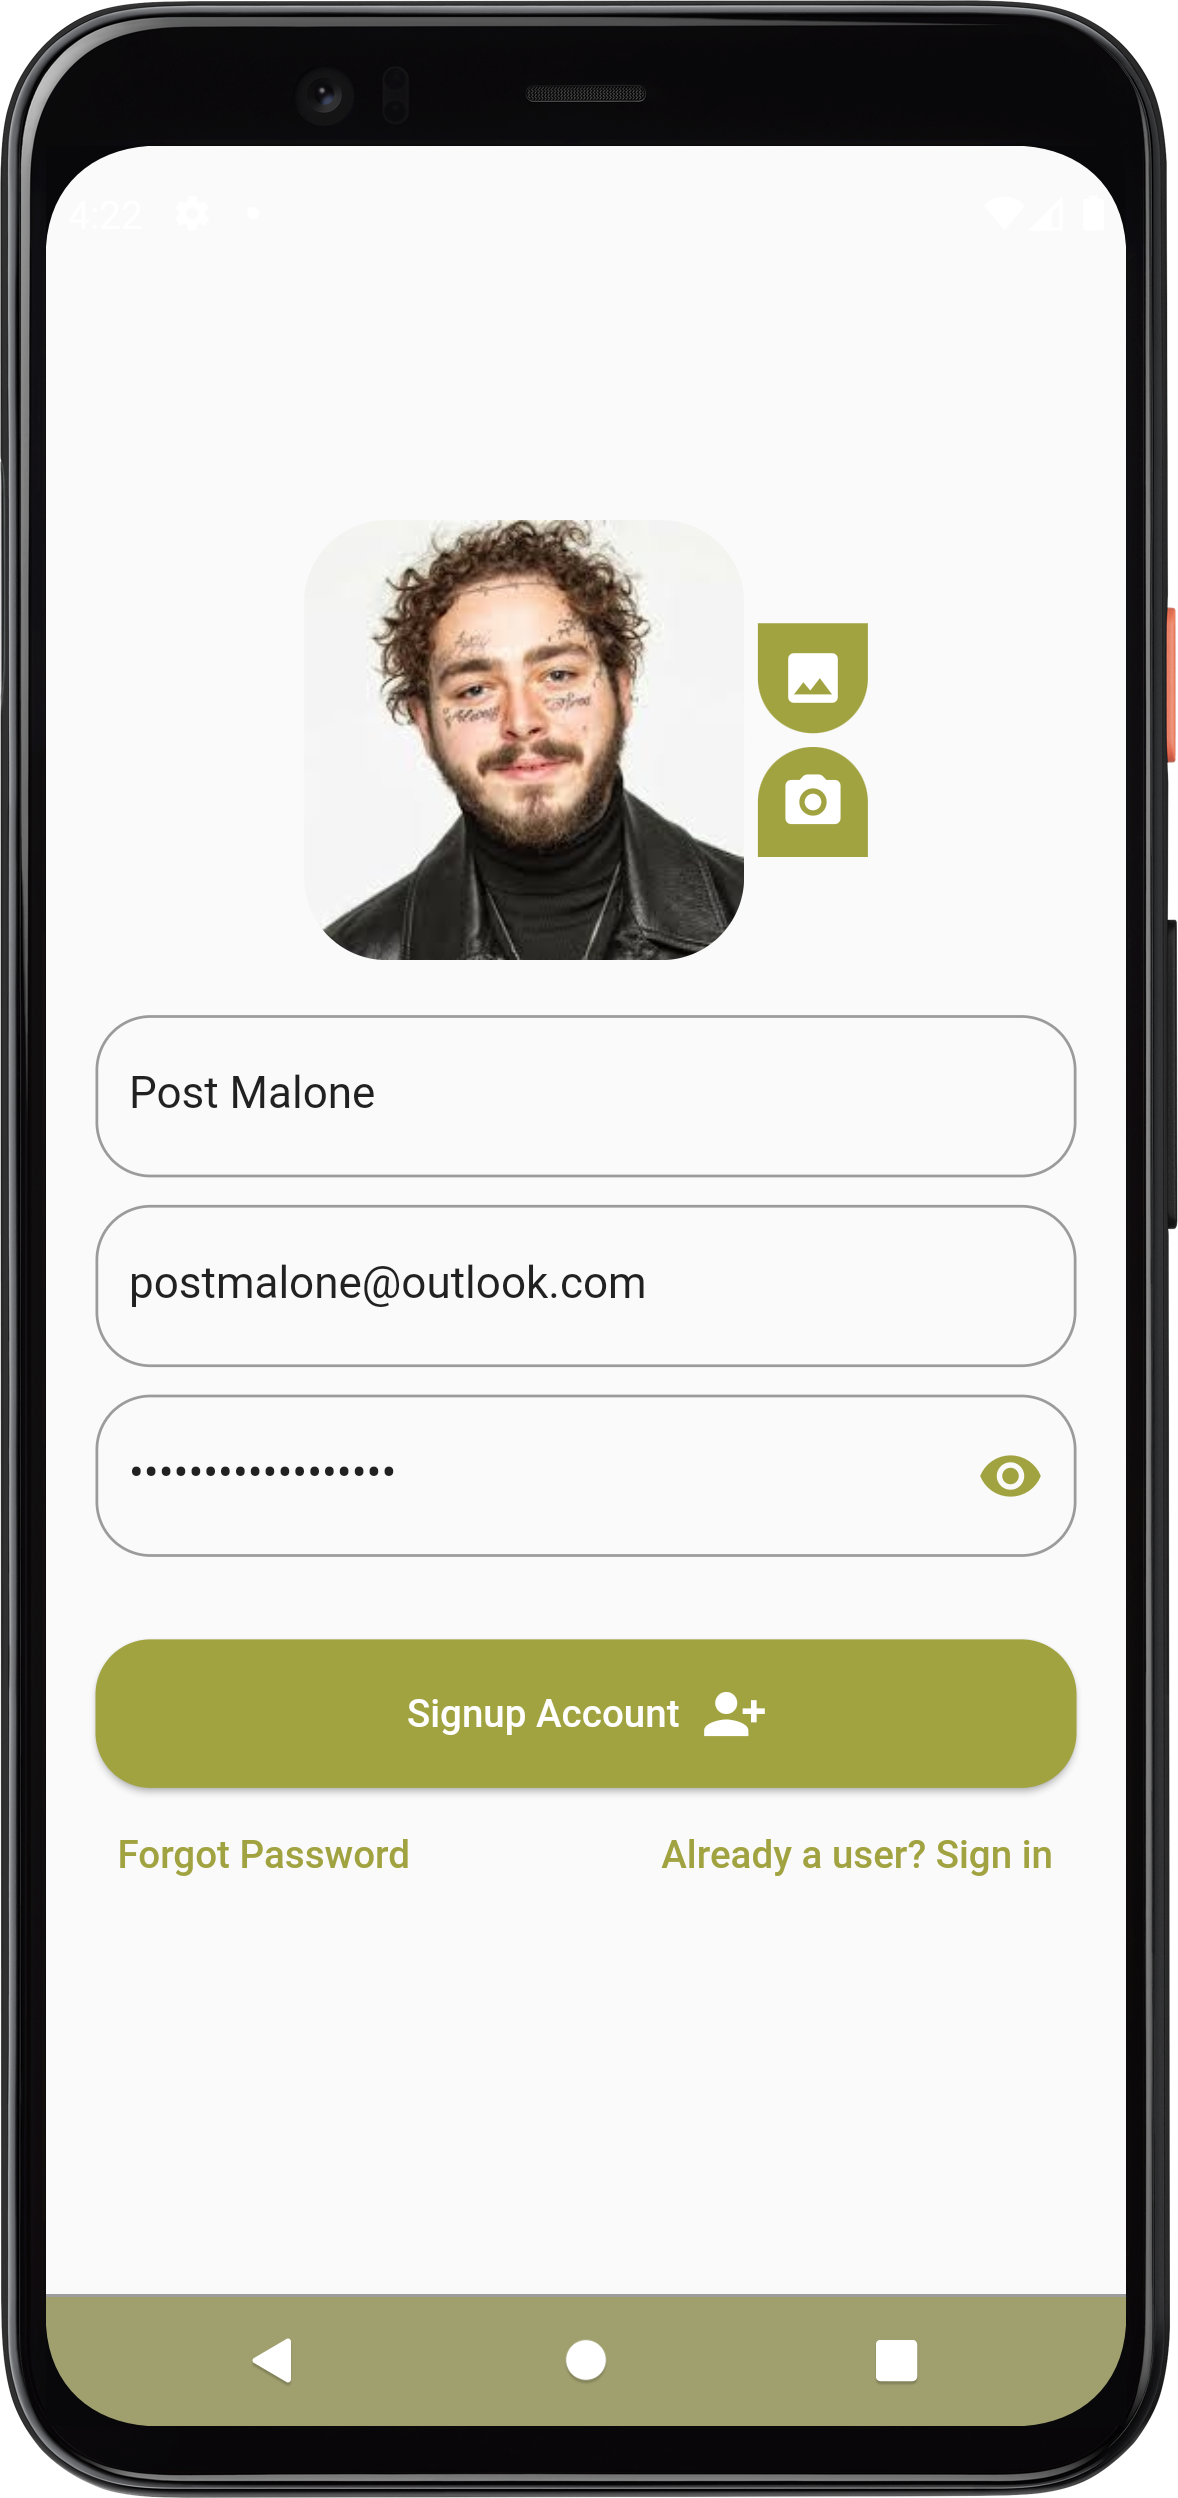
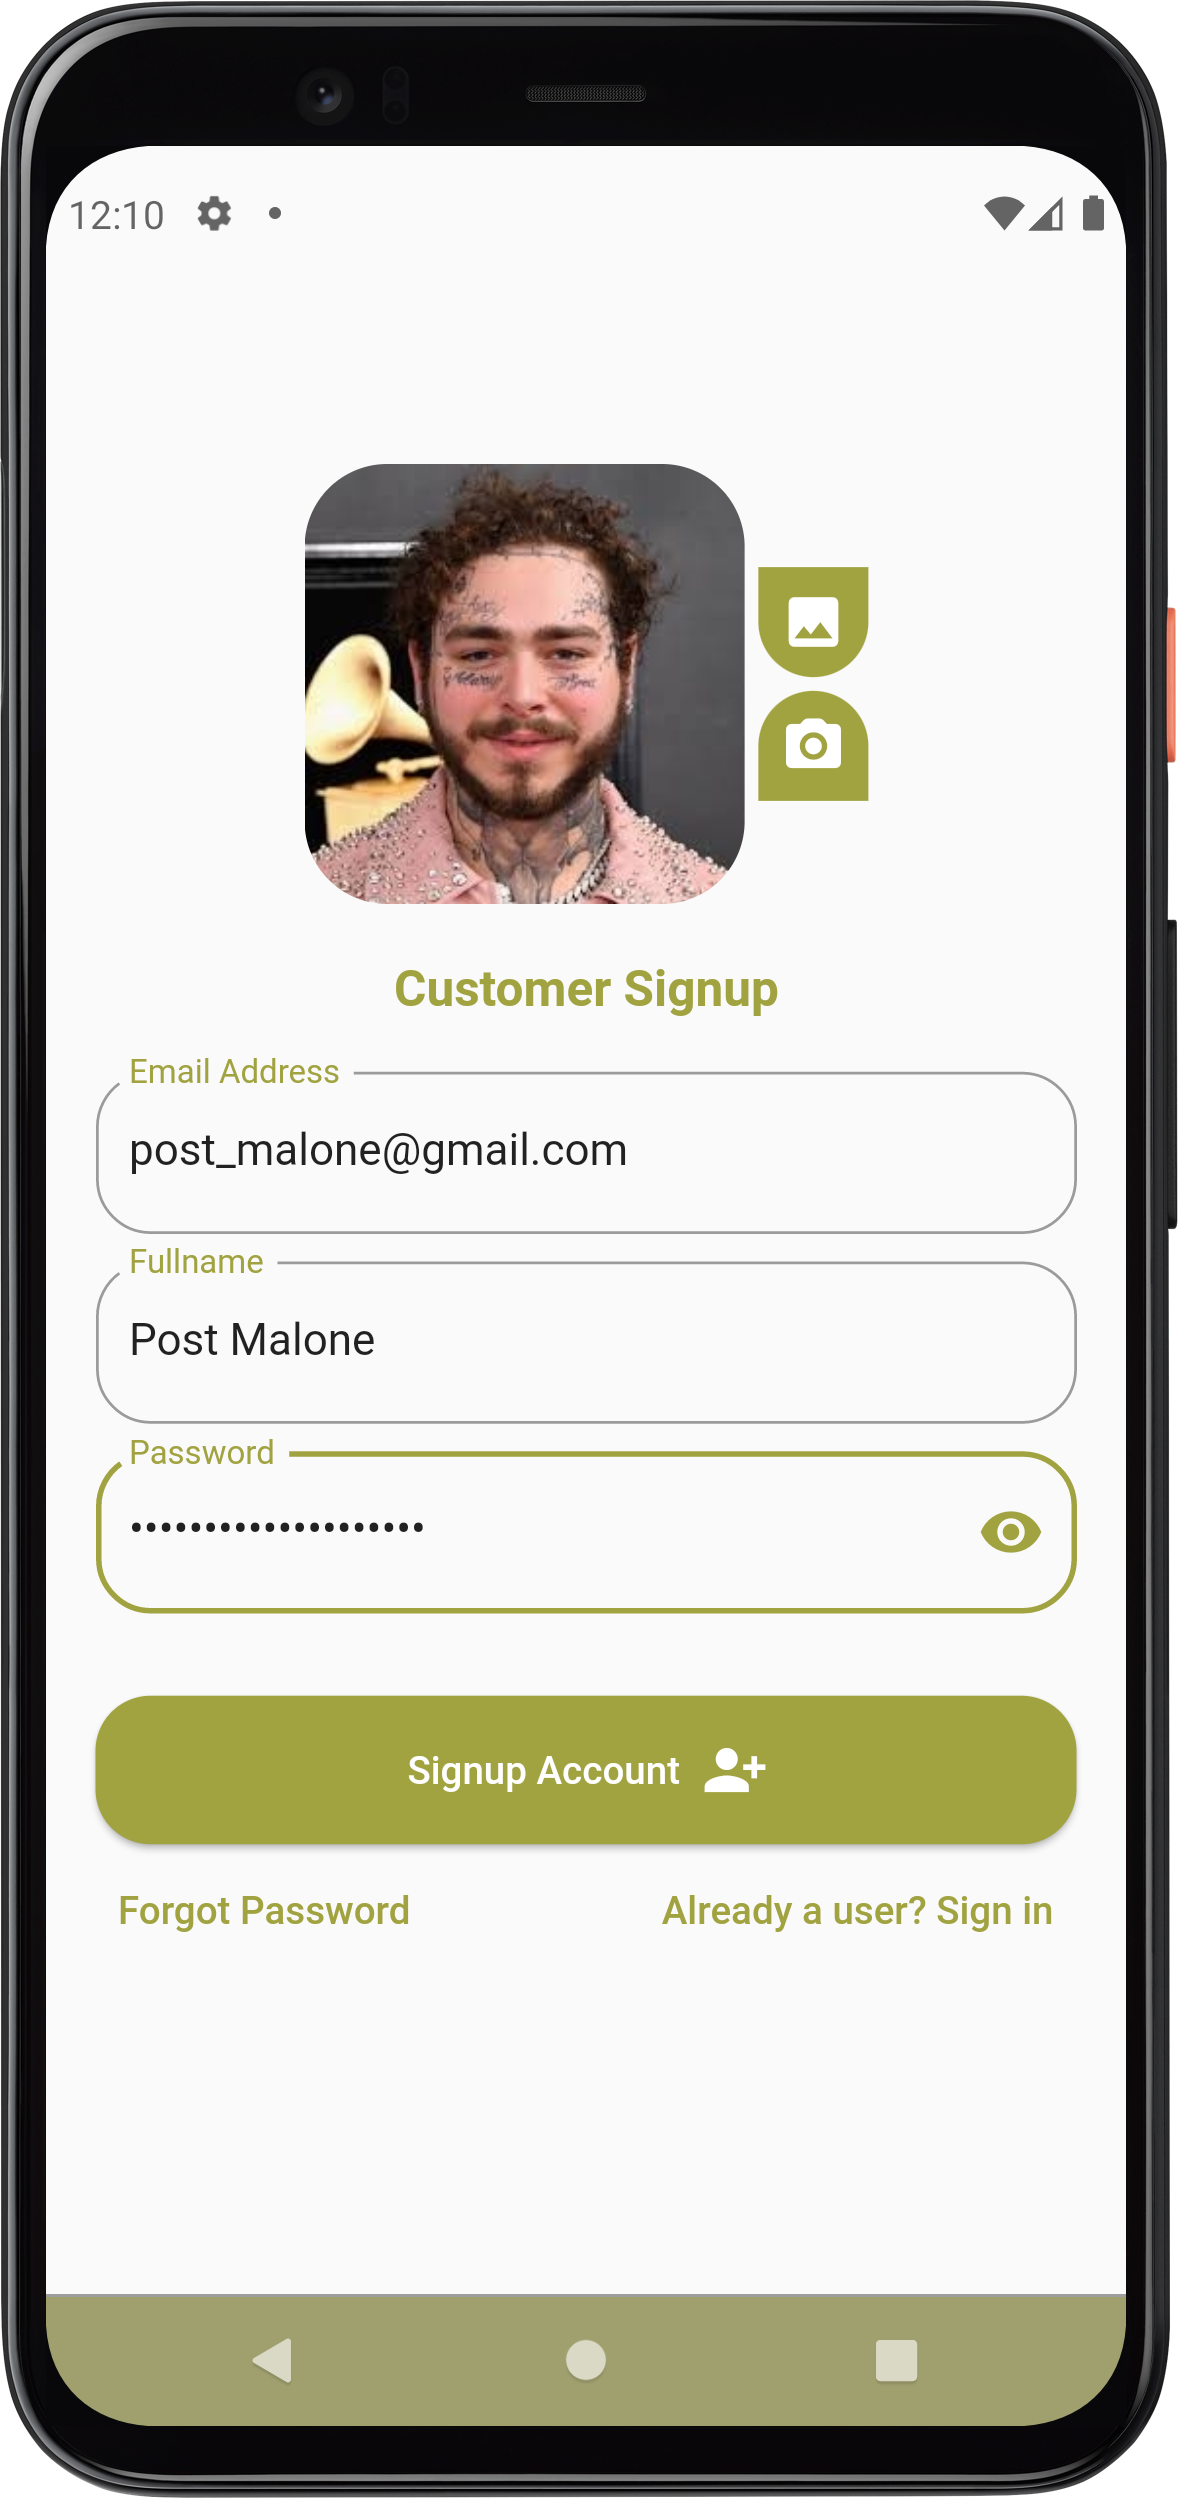
task: account type and adjustments

diff --git a/lib/views/auth/customer_auth.dart b/lib/views/auth/customer_auth.dart
@@ -45,6 +45,7 @@ class _CustomerAuthState extends State<CustomerAuth> {
   Widget kTextField(
     TextEditingController controller,
     String hint,
+    String label,
     Field field,
     bool obscureText,
   ) {
@@ -56,7 +57,10 @@ class _CustomerAuthState extends State<CustomerAuth> {
           : TextInputType.text,
       textInputAction:
           field == Field.password ? TextInputAction.done : TextInputAction.next,
+      autofocus: field == Field.email ? true: false,
       decoration: InputDecoration(
+        labelText: label,
+        labelStyle: const TextStyle(color: primaryColor),
         suffixIcon: field == Field.password
             ? _passwordController.text.isNotEmpty
                 ? IconButton(
@@ -214,124 +218,143 @@ class _CustomerAuthState extends State<CustomerAuth> {
     return Scaffold(
       body: Padding(
         padding: const EdgeInsets.all(18.0),
-        child: Column(
-          mainAxisAlignment: MainAxisAlignment.center,
-          children: [
-            !isLogin
-                ? Row(
-                    mainAxisAlignment: MainAxisAlignment.center,
+        child: Center(
+          child: SingleChildScrollView(
+            child: Column(
+              mainAxisAlignment: MainAxisAlignment.center,
+              crossAxisAlignment: CrossAxisAlignment.stretch,
+              children: [
+                !isLogin
+                    ? Row(
+                        mainAxisAlignment: MainAxisAlignment.center,
+                        children: [
+                          CircleAvatar(
+                            radius: profileImage == null ? 60 : 80,
+                            backgroundColor: Colors.white,
+                            child: Center(
+                              child: profileImage == null
+                                  ? Image.asset(
+                                      'assets/images/profile.png',
+                                      color: primaryColor,
+                                    )
+                                  : ClipRRect(
+                                      borderRadius: BorderRadius.circular(30),
+                                      child: Image.file(
+                                        File(profileImage!.path),
+                                      ),
+                                    ),
+                            ),
+                          ),
+                          const SizedBox(width: 5),
+                          Column(
+                            children: [
+                              kContainer(Source.gallery),
+                              const SizedBox(height: 5),
+                              kContainer(Source.camera)
+                            ],
+                          )
+                        ],
+                      )
+                    : const SizedBox.shrink(),
+                const SizedBox(height: 20),
+                Center(
+                  child: Text(
+                    isLogin ? 'Customer Signin ' : 'Customer Signup',
+                    style: const TextStyle(
+                      color: primaryColor,
+                      fontSize: 18,
+                      fontWeight: FontWeight.w600,
+                    ),
+                  ),
+                ),
+                const SizedBox(height: 20),
+                Form(
+                  key: _formKey,
+                  child: Column(
+                    crossAxisAlignment: CrossAxisAlignment.stretch,
                     children: [
-                      CircleAvatar(
-                        radius: profileImage == null ? 60 : 80,
-                        backgroundColor: Colors.white,
-                        child: Center(
-                          child: profileImage == null
-                              ? Image.asset(
-                                  'assets/images/profile.png',
-                                  color: primaryColor,
-                                )
-                              : ClipRRect(
-                                  borderRadius: BorderRadius.circular(30),
-                                  child: Image.file(
-                                    File(profileImage!.path),
-                                  ),
-                                ),
+                      kTextField(
+                        _emailController,
+                        'doe@gmail.com',
+                        'Email Address',
+                        Field.email,
+                        false,
+                      ),
+                      const SizedBox(height: 10),
+                      !isLogin
+                          ? kTextField(
+                              _fullnameController,
+                              'John Doe',
+                              'Fullname',
+                              Field.fullname,
+                              false,
+                            )
+                          : const SizedBox.shrink(),
+                      SizedBox(height: isLogin ? 0 : 10),
+                      kTextField(
+                        _passwordController,
+                        '********',
+                        'Password',
+                        Field.password,
+                        obscure,
+                      ),
+                      const SizedBox(height: 30),
+                      Directionality(
+                        textDirection: TextDirection.rtl,
+                        child: ElevatedButton.icon(
+                          style: ElevatedButton.styleFrom(
+                            primary: primaryColor,
+                            shape: RoundedRectangleBorder(
+                              borderRadius: BorderRadius.circular(20),
+                            ),
+                            padding: const EdgeInsets.all(15),
+                          ),
+                          icon: Icon(
+                            isLogin ? Icons.person : Icons.person_add_alt_1,
+                            color: Colors.white,
+                          ),
+                          onPressed: () => _handleAuth(),
+                          label: Text(
+                            isLogin ? 'Signin Account' : 'Signup Account',
+                            style: const TextStyle(
+                              color: Colors.white,
+                            ),
+                          ),
                         ),
                       ),
-                      const SizedBox(width: 5),
-                      Column(
+                      Row(
+                        mainAxisAlignment: MainAxisAlignment.spaceBetween,
                         children: [
-                          kContainer(Source.gallery),
-                          const SizedBox(height: 5),
-                          kContainer(Source.camera)
+                          TextButton(
+                            onPressed: () => _forgotPassword(),
+                            child: const Text(
+                              'Forgot Password',
+                              style: TextStyle(
+                                color: primaryColor,
+                                fontWeight: FontWeight.w500,
+                              ),
+                            ),
+                          ),
+                          TextButton(
+                            onPressed: () => _switchLog(),
+                            child: Text(
+                              isLogin
+                                  ? 'New here? Create Account'
+                                  : 'Already a user? Sign in',
+                              style: const TextStyle(
+                                color: primaryColor,
+                                fontWeight: FontWeight.w500,
+                              ),
+                            ),
+                          )
                         ],
                       )
                     ],
-                  )
-                : const SizedBox.shrink(),
-            const SizedBox(height: 20),
-            Form(
-              key: _formKey,
-              child: Column(
-                crossAxisAlignment: CrossAxisAlignment.stretch,
-                children: [
-                  kTextField(
-                    _emailController,
-                    'doe@gmail.com',
-                    Field.email,
-                    false,
                   ),
-                  const SizedBox(height: 10),
-                  !isLogin
-                      ? kTextField(
-                          _fullnameController,
-                          'John Doe',
-                          Field.fullname,
-                          false,
-                        )
-                      : const SizedBox.shrink(),
-                  SizedBox(height: isLogin ? 0 : 10),
-                  kTextField(
-                    _passwordController,
-                    '********',
-                    Field.password,
-                    obscure,
-                  ),
-                  const SizedBox(height: 30),
-                  Directionality(
-                    textDirection: TextDirection.rtl,
-                    child: ElevatedButton.icon(
-                      style: ElevatedButton.styleFrom(
-                        primary: primaryColor,
-                        shape: RoundedRectangleBorder(
-                          borderRadius: BorderRadius.circular(20),
-                        ),
-                        padding: const EdgeInsets.all(15),
-                      ),
-                      icon: Icon(
-                        isLogin ? Icons.person : Icons.person_add_alt_1,
-                        color: Colors.white,
-                      ),
-                      onPressed: () => _handleAuth(),
-                      label: Text(
-                        isLogin ? 'Signin Account' : 'Signup Account',
-                        style: const TextStyle(
-                          color: Colors.white,
-                        ),
-                      ),
-                    ),
-                  ),
-                  Row(
-                    mainAxisAlignment: MainAxisAlignment.spaceBetween,
-                    children: [
-                      TextButton(
-                        onPressed: () => _forgotPassword(),
-                        child: const Text(
-                          'Forgot Password',
-                          style: TextStyle(
-                            color: primaryColor,
-                            fontWeight: FontWeight.w500,
-                          ),
-                        ),
-                      ),
-                      TextButton(
-                        onPressed: () => _switchLog(),
-                        child: Text(
-                          isLogin
-                              ? 'New here? Create Account'
-                              : 'Already a user? Sign in',
-                          style: const TextStyle(
-                            color: primaryColor,
-                            fontWeight: FontWeight.w500,
-                          ),
-                        ),
-                      )
-                    ],
-                  )
-                ],
-              ),
-            )
-          ],
+                )
+              ],
+            ),
+          ),
         ),
       ),
     );

diff --git a/lib/views/auth/forgot_password.dart b/lib/views/auth/forgot_password.dart
@@ -48,17 +48,31 @@ class _ForgotPasswordState extends State<ForgotPassword> {
         child: Column(
           mainAxisAlignment: MainAxisAlignment.center,
           children: [
+            const Center(
+              child: Text(
+                'Forgot Password?',
+                style: TextStyle(
+                  color: primaryColor,
+                  fontSize: 18,
+                  fontWeight: FontWeight.w600,
+                ),
+              ),
+            ),
+            const SizedBox(height: 20),
             Form(
               key: _formKey,
               child: Column(
                 crossAxisAlignment: CrossAxisAlignment.stretch,
                 children: [
                   TextFormField(
+                    autofocus: true,
                     controller: _emailController,
                     keyboardType: TextInputType.emailAddress,
                     textInputAction: TextInputAction.done,
                     decoration: InputDecoration(
                       hintText: 'doe@gmail.com',
+                      labelText: 'Email Address',
+                      labelStyle: const  TextStyle(color:primaryColor),
                       focusedBorder: OutlineInputBorder(
                         borderRadius: BorderRadius.circular(20),
                         borderSide: const BorderSide(

diff --git a/lib/views/auth/account_type_selector.dart b/lib/views/auth/account_type_selector.dart
@@ -1,5 +1,6 @@
 import 'package:flutter/material.dart';
 import 'package:flutter/services.dart';
+import 'package:multivendor_shop/views/auth/customer_auth.dart';
 
 import '../../constants/colors.dart';
 
@@ -57,8 +58,10 @@ class _AccountTypeSelectorState extends State<AccountTypeSelector> {
   _navigateToSection() {
     if (typeIndex == 0) {
       // registering as a customer
+      Navigator.of(context).pushNamed(CustomerAuth.routeName);
     } else {
       // registering as a seller
+
     }
   }
 
